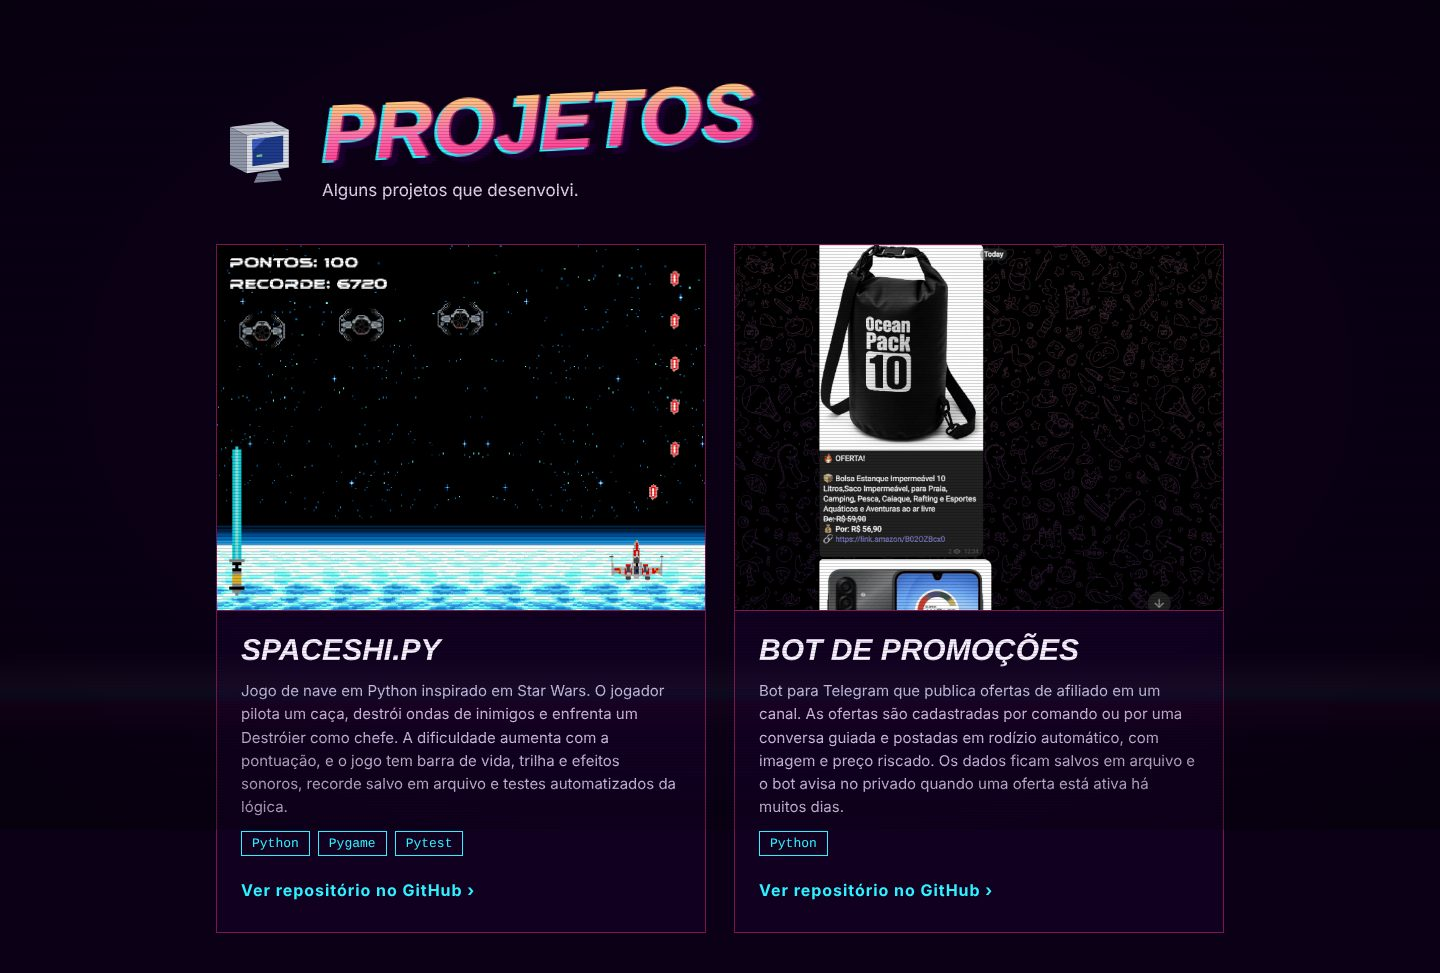
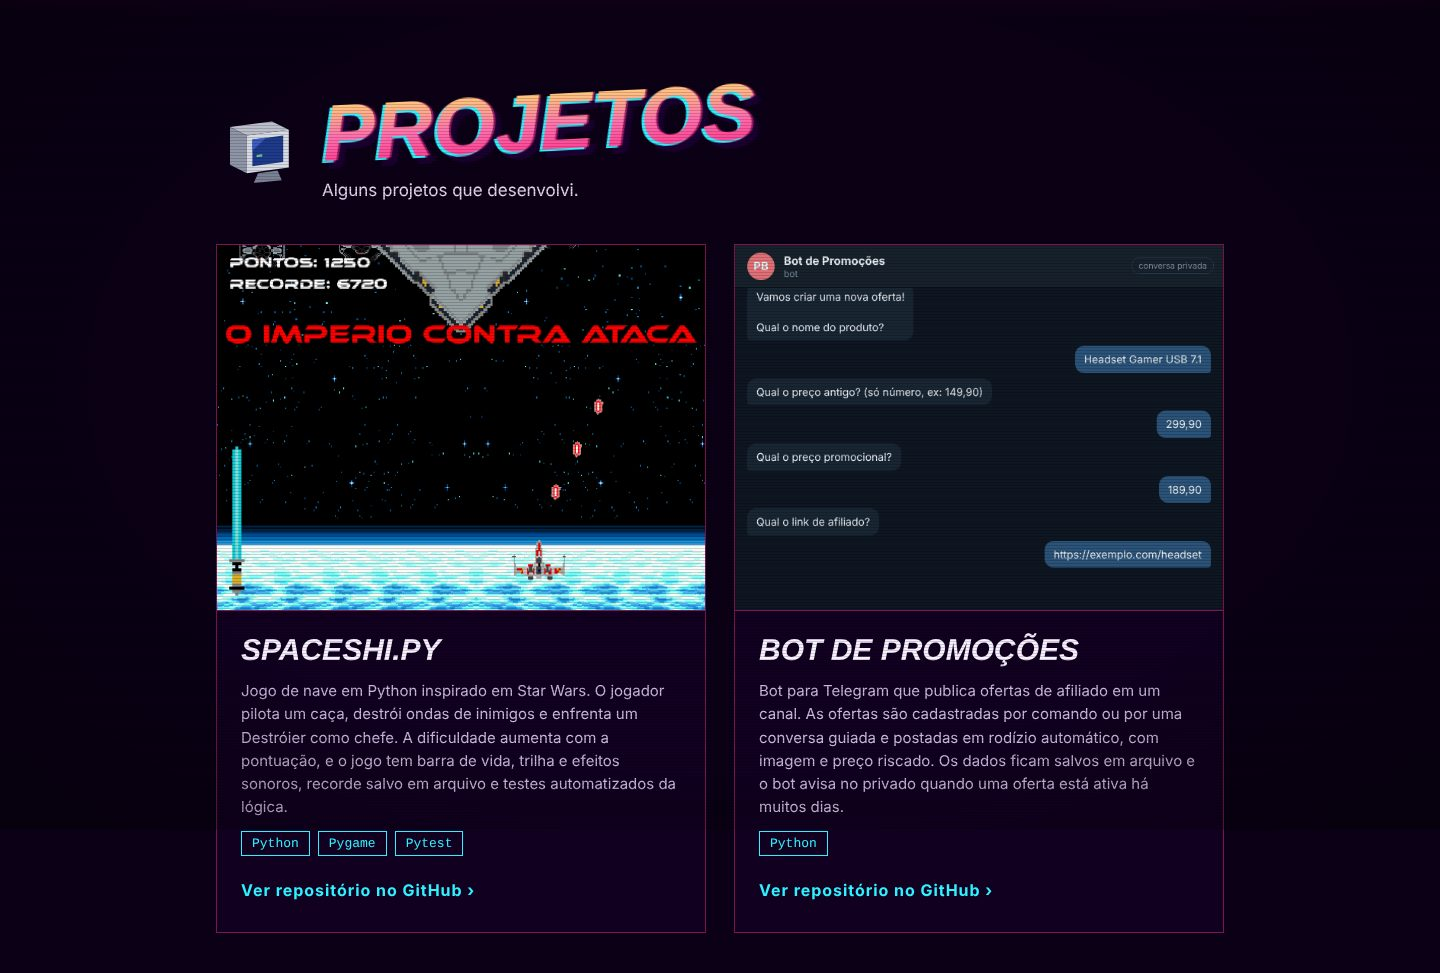
Update projects

diff --git a/app/globals.css b/app/globals.css
@@ -110,7 +110,6 @@ body { overflow-x: clip; }
 .about-card { flex: 1 1 300px; max-width: 380px; padding: 24px; display: flex; flex-direction: column; gap: 14px; }
 .about-photo { height: 320px; overflow: hidden; display: grid; place-items: center; background: linear-gradient(180deg, #12002a 0%, #73167c 65%, #ff4f8b 100%); font-family: var(--f-mono); font-size: 14px; }
 .about-photo img { width: 100%; height: 100%; object-fit: cover; object-position: center 40%; }
-.project-media img[src$=".png"] { object-position: center top; }
 .fact { display: flex; justify-content: space-between; gap: 16px; padding: 8px 0; border-bottom: 1px dashed rgba(201, 184, 220, 0.35); }
 .fact b { font-weight: 600; font-size: 14px; text-align: right; }
 .about-text { flex: 999 1 520px; min-width: 0; display: flex; flex-direction: column; gap: 28px; }

diff --git a/data/content.ts b/data/content.ts
@@ -88,7 +88,7 @@ export const projects: Project[] = [
     },
     tech: ["Python"],
     repo: "https://github.com/vGustav1/bot-promocoes-telegram",
-    gif: "/projetos/bot-promocoes.png",
+    gif: "/projetos/bot-promocoes.gif",
   },
 ];
 
